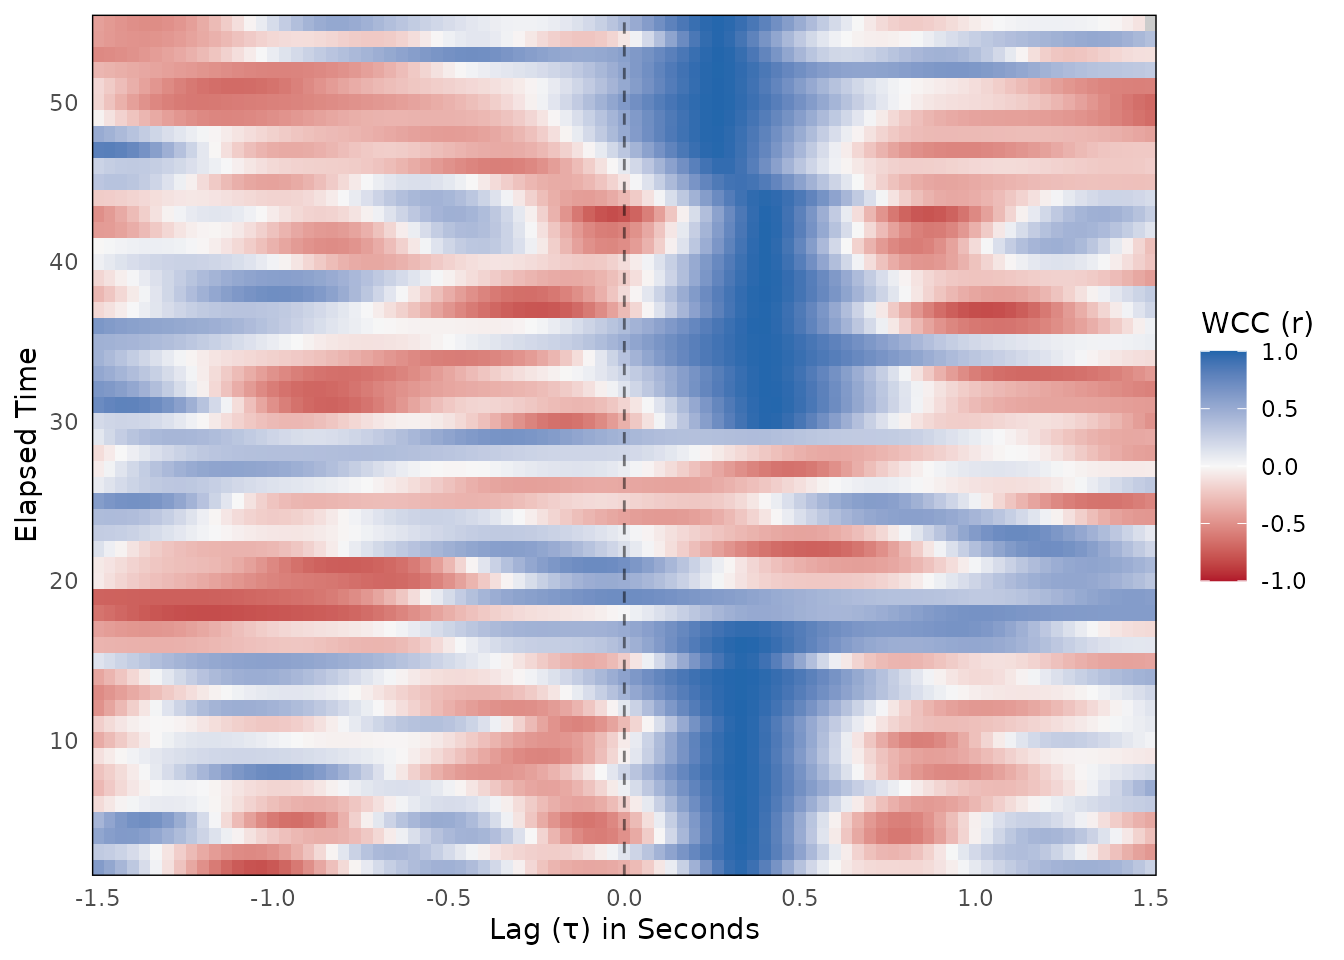
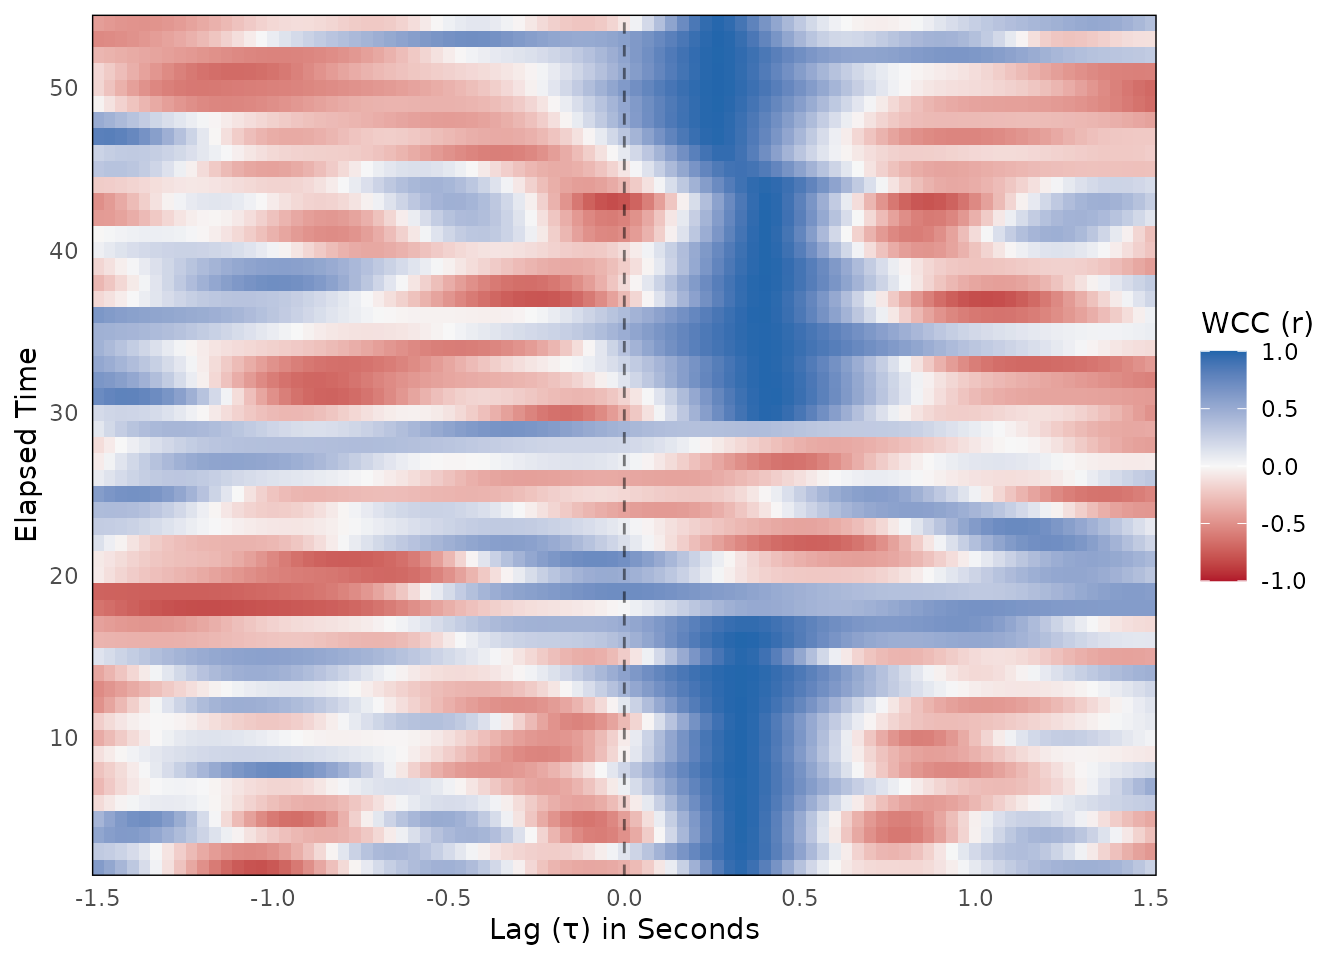
Deploying to gh-pages from @ jmgirard/bsync@b9f442d002ca07df2259f0f39518f39d2402fdb6 🚀

diff --git a/articles/wcc-workflow.html b/articles/wcc-workflow.html
@@ -208,17 +208,16 @@ frames (1 second) to allow for overlap and smooth transitions.</p>
 <span><span class="fu"><a href="https://rdrr.io/r/base/summary.html" class="external-link">summary</a></span><span class="op">(</span><span class="va">wcc_results</span><span class="op">)</span></span>
 <span><span class="co">#&gt; </span></span>
 <span><span class="co">#&gt; <span style="color: #00BBBB;">──</span> <span style="font-weight: bold;">Windowed Cross-Correlation Analysis</span> <span style="color: #00BBBB;">─────────────────────────────────────────</span></span></span>
-<span><span class="co">#&gt; Total Windows: 54</span></span>
+<span><span class="co">#&gt; Total Windows: 53</span></span>
 <span><span class="co">#&gt; Total Lags Tested: 91</span></span>
 <span><span class="co">#&gt; Window Size: 90</span></span>
 <span><span class="co">#&gt; Max Lag: 45</span></span>
-<span><span class="co">#&gt; Overall Fisher's Z: 0.4526</span></span>
+<span><span class="co">#&gt; Overall Fisher's Z: 0.4534</span></span>
 <span><span class="co">#&gt; </span></span>
 <span><span class="co">#&gt; ── <span style="font-weight: bold;">Cross-Correlation Value Distribution</span> ──</span></span>
 <span><span class="co">#&gt; </span></span>
 <span><span class="co">#&gt;      0%     25%     50%     75%    100% </span></span>
-<span><span class="co">#&gt; -0.8224 -0.2753  0.0178  0.3833  0.9975</span></span>
-<span><span class="co">#&gt; <span style="color: #BBBB00;">!</span> 1 missing value (NA) detected.</span></span></code></pre></div>
+<span><span class="co">#&gt; -0.8224 -0.2776  0.0129  0.3826  0.9975</span></span></code></pre></div>
 <p>The <code><a href="../reference/wcc.html">wcc()</a></code> function returns a list object of class
 <code>wcc_res</code> containing the results data frame, the overall
 Fisher’s Z score, and the input settings.</p>
@@ -255,10 +254,9 @@ distribution using the circular shift method.</p>
 <span><span class="op">)</span></span>
 <span></span>
 <span><span class="fu"><a href="https://rdrr.io/r/base/print.html" class="external-link">print</a></span><span class="op">(</span><span class="va">surrogate_results</span><span class="op">)</span></span>
-<span><span class="co">#&gt; </span></span>
 <span><span class="co">#&gt; <span style="color: #00BBBB;">──</span> <span style="font-weight: bold;">WCC Surrogate Analysis (Pseudo-Synchrony)</span> <span style="color: #00BBBB;">───────────────────────────────────</span></span></span>
 <span><span class="co">#&gt; Permutations: 1000</span></span>
-<span><span class="co">#&gt; Observed Fisher's Z: 0.4526</span></span>
+<span><span class="co">#&gt; Observed Fisher's Z: 0.4534</span></span>
 <span><span class="co">#&gt; Average Null Z: 0.3167</span></span>
 <span><span class="co">#&gt; Empirical p-value: &lt; 0.001</span></span>
 <span><span class="co">#&gt; <span style="color: #00BB00;">✔</span> Observed synchrony is significantly greater than chance.</span></span></code></pre></div>
@@ -293,20 +291,20 @@ an absolute correlation weaker than <span class="math inline">\(r =
 <span><span class="co">#&gt; </span></span>
 <span><span class="co">#&gt; ── <span style="font-weight: bold;">Completeness</span> ──</span></span>
 <span><span class="co">#&gt; </span></span>
-<span><span class="co">#&gt; <span style="color: #00BBBB;">•</span> Total time windows: 54</span></span>
-<span><span class="co">#&gt; <span style="color: #00BBBB;">•</span> Valid optima retained: 49 (90.7%)</span></span>
-<span><span class="co">#&gt; <span style="color: #00BBBB;">•</span> Optima dropped (NA): 5 (9.3%)</span></span>
+<span><span class="co">#&gt; <span style="color: #00BBBB;">•</span> Total time windows: 53</span></span>
+<span><span class="co">#&gt; <span style="color: #00BBBB;">•</span> Valid optima retained: 48 (90.6%)</span></span>
+<span><span class="co">#&gt; <span style="color: #00BBBB;">•</span> Optima dropped (NA): 5 (9.4%)</span></span>
 <span><span class="co">#&gt; </span></span>
 <span><span class="co">#&gt; ── <span style="font-weight: bold;">Lag Directionality (Leadership)</span> ──</span></span>
 <span><span class="co">#&gt; </span></span>
-<span><span class="co">#&gt; <span style="color: #00BBBB;">•</span> Positive Lags (x leads y): 39 (79.6%)</span></span>
-<span><span class="co">#&gt; <span style="color: #00BBBB;">•</span> Negative Lags (y leads x): 9 (18.4%)</span></span>
-<span><span class="co">#&gt; <span style="color: #00BBBB;">•</span> Zero Lags (Simultaneous): 1 (2%)</span></span>
+<span><span class="co">#&gt; <span style="color: #00BBBB;">•</span> Positive Lags (x leads y): 38 (79.2%)</span></span>
+<span><span class="co">#&gt; <span style="color: #00BBBB;">•</span> Negative Lags (y leads x): 9 (18.8%)</span></span>
+<span><span class="co">#&gt; <span style="color: #00BBBB;">•</span> Zero Lags (Simultaneous): 1 (2.1%)</span></span>
 <span><span class="co">#&gt; </span></span>
 <span><span class="co">#&gt; ── <span style="font-weight: bold;">Optimum Value Distribution</span> ──</span></span>
 <span><span class="co">#&gt; </span></span>
 <span><span class="co">#&gt;      0%     25%     50%     75%    100% </span></span>
-<span><span class="co">#&gt; -0.3739  0.9532  0.9923  0.9959  0.9975</span></span></code></pre></div>
+<span><span class="co">#&gt; -0.3739  0.9433  0.9926  0.9959  0.9975</span></span></code></pre></div>
 <div class="section level4">
 <h4 id="interpreting-the-optima-summary">4.1 Interpreting the Optima Summary<a class="anchor" aria-label="anchor" href="#interpreting-the-optima-summary"></a>
 </h4>

diff --git a/articles/wdtw-workflow.html b/articles/wdtw-workflow.html
@@ -156,11 +156,11 @@ than arbitrary measurement units.</p>
 <span><span class="fu"><a href="https://rdrr.io/r/base/print.html" class="external-link">print</a></span><span class="op">(</span><span class="va">wdtw_results</span><span class="op">)</span></span>
 <span><span class="co">#&gt; </span></span>
 <span><span class="co">#&gt; <span style="color: #00BBBB;">──</span> <span style="font-weight: bold;">Windowed Dynamic Time Warping Analysis</span> <span style="color: #00BBBB;">──────────────────────────────────────</span></span></span>
-<span><span class="co">#&gt; Total Windows: 55</span></span>
+<span><span class="co">#&gt; Total Windows: 54</span></span>
 <span><span class="co">#&gt; Total Lags Tested: 91</span></span>
 <span><span class="co">#&gt; Window Size: 90</span></span>
 <span><span class="co">#&gt; Max Lag: 45</span></span>
-<span><span class="co">#&gt; Overall Mean Distance: 36.6055</span></span></code></pre></div>
+<span><span class="co">#&gt; Overall Mean Distance: 36.5766</span></span></code></pre></div>
 <p>The <code><a href="../reference/wdtw.html">wdtw()</a></code> function returns a list object of class
 <code>wdtw_res</code> containing the results data frame, the overall
 mean distance, and the input settings.</p>
@@ -189,20 +189,20 @@ window to find the absolute minimum distance
 <span><span class="co">#&gt; </span></span>
 <span><span class="co">#&gt; ── <span style="font-weight: bold;">Completeness</span> ──</span></span>
 <span><span class="co">#&gt; </span></span>
-<span><span class="co">#&gt; <span style="color: #00BBBB;">•</span> Total time windows: 55</span></span>
-<span><span class="co">#&gt; <span style="color: #00BBBB;">•</span> Valid optima retained: 55 (100%)</span></span>
+<span><span class="co">#&gt; <span style="color: #00BBBB;">•</span> Total time windows: 54</span></span>
+<span><span class="co">#&gt; <span style="color: #00BBBB;">•</span> Valid optima retained: 54 (100%)</span></span>
 <span><span class="co">#&gt; <span style="color: #00BBBB;">•</span> Optima dropped (NA): 0 (0%)</span></span>
 <span><span class="co">#&gt; </span></span>
 <span><span class="co">#&gt; ── <span style="font-weight: bold;">Lag Directionality (Leadership)</span> ──</span></span>
 <span><span class="co">#&gt; </span></span>
-<span><span class="co">#&gt; <span style="color: #00BBBB;">•</span> Positive Lags (x leads y): 24 (43.6%)</span></span>
-<span><span class="co">#&gt; <span style="color: #00BBBB;">•</span> Negative Lags (y leads x): 29 (52.7%)</span></span>
-<span><span class="co">#&gt; <span style="color: #00BBBB;">•</span> Zero Lags (Simultaneous): 2 (3.6%)</span></span>
+<span><span class="co">#&gt; <span style="color: #00BBBB;">•</span> Positive Lags (x leads y): 24 (44.4%)</span></span>
+<span><span class="co">#&gt; <span style="color: #00BBBB;">•</span> Negative Lags (y leads x): 28 (51.9%)</span></span>
+<span><span class="co">#&gt; <span style="color: #00BBBB;">•</span> Zero Lags (Simultaneous): 2 (3.7%)</span></span>
 <span><span class="co">#&gt; </span></span>
 <span><span class="co">#&gt; ── <span style="font-weight: bold;">Optimum Value Distribution</span> ──</span></span>
 <span><span class="co">#&gt; </span></span>
 <span><span class="co">#&gt;      0%     25%     50%     75%    100% </span></span>
-<span><span class="co">#&gt; 17.0898 19.0493 19.8450 20.5687 23.3458</span></span></code></pre></div>
+<span><span class="co">#&gt; 17.0898 19.0350 19.8222 20.5789 23.3458</span></span></code></pre></div>
 <p>This returns a <code>wdtw_optima</code> data frame containing the
 elapsed time indices, the optimal lags, and the corresponding DTW
 distance values. The console output confirms that the search mode was

diff --git a/articles/wcc-workflow.md b/articles/wcc-workflow.md
@@ -142,17 +142,16 @@ wcc_results <- wcc(
 summary(wcc_results)
 #> 
 #> ── Windowed Cross-Correlation Analysis ─────────────────────────────────────────
-#> Total Windows: 54
+#> Total Windows: 53
 #> Total Lags Tested: 91
 #> Window Size: 90
 #> Max Lag: 45
-#> Overall Fisher's Z: 0.4526
+#> Overall Fisher's Z: 0.4534
 #> 
 #> ── Cross-Correlation Value Distribution ──
 #> 
 #>      0%     25%     50%     75%    100% 
-#> -0.8224 -0.2753  0.0178  0.3833  0.9975
-#> ! 1 missing value (NA) detected.
+#> -0.8224 -0.2776  0.0129  0.3826  0.9975
 ```
 
 The [`wcc()`](https://jmgirard.github.io/bsync/reference/wcc.md)
@@ -198,10 +197,9 @@ surrogate_results <- wcc_surrogate(
 )
 
 print(surrogate_results)
-#> 
 #> ── WCC Surrogate Analysis (Pseudo-Synchrony) ───────────────────────────────────
 #> Permutations: 1000
-#> Observed Fisher's Z: 0.4526
+#> Observed Fisher's Z: 0.4534
 #> Average Null Z: 0.3167
 #> Empirical p-value: < 0.001
 #> ✔ Observed synchrony is significantly greater than chance.
@@ -241,20 +239,20 @@ summary(wcc_optima_df)
 #> 
 #> ── Completeness ──
 #> 
-#> • Total time windows: 54
-#> • Valid optima retained: 49 (90.7%)
-#> • Optima dropped (NA): 5 (9.3%)
+#> • Total time windows: 53
+#> • Valid optima retained: 48 (90.6%)
+#> • Optima dropped (NA): 5 (9.4%)
 #> 
 #> ── Lag Directionality (Leadership) ──
 #> 
-#> • Positive Lags (x leads y): 39 (79.6%)
-#> • Negative Lags (y leads x): 9 (18.4%)
-#> • Zero Lags (Simultaneous): 1 (2%)
+#> • Positive Lags (x leads y): 38 (79.2%)
+#> • Negative Lags (y leads x): 9 (18.8%)
+#> • Zero Lags (Simultaneous): 1 (2.1%)
 #> 
 #> ── Optimum Value Distribution ──
 #> 
 #>      0%     25%     50%     75%    100% 
-#> -0.3739  0.9532  0.9923  0.9959  0.9975
+#> -0.3739  0.9433  0.9926  0.9959  0.9975
 ```
 
 #### 4.1 Interpreting the Optima Summary

diff --git a/articles/wdtw-workflow.md b/articles/wdtw-workflow.md
@@ -89,11 +89,11 @@ wdtw_results <- wdtw(
 print(wdtw_results)
 #> 
 #> ── Windowed Dynamic Time Warping Analysis ──────────────────────────────────────
-#> Total Windows: 55
+#> Total Windows: 54
 #> Total Lags Tested: 91
 #> Window Size: 90
 #> Max Lag: 45
-#> Overall Mean Distance: 36.6055
+#> Overall Mean Distance: 36.5766
 ```
 
 The [`wdtw()`](https://jmgirard.github.io/bsync/reference/wdtw.md)
@@ -126,20 +126,20 @@ summary(wdtw_optima_df)
 #> 
 #> ── Completeness ──
 #> 
-#> • Total time windows: 55
-#> • Valid optima retained: 55 (100%)
+#> • Total time windows: 54
+#> • Valid optima retained: 54 (100%)
 #> • Optima dropped (NA): 0 (0%)
 #> 
 #> ── Lag Directionality (Leadership) ──
 #> 
-#> • Positive Lags (x leads y): 24 (43.6%)
-#> • Negative Lags (y leads x): 29 (52.7%)
-#> • Zero Lags (Simultaneous): 2 (3.6%)
+#> • Positive Lags (x leads y): 24 (44.4%)
+#> • Negative Lags (y leads x): 28 (51.9%)
+#> • Zero Lags (Simultaneous): 2 (3.7%)
 #> 
 #> ── Optimum Value Distribution ──
 #> 
 #>      0%     25%     50%     75%    100% 
-#> 17.0898 19.0493 19.8450 20.5687 23.3458
+#> 17.0898 19.0350 19.8222 20.5789 23.3458
 ```
 
 This returns a `wdtw_optima` data frame containing the elapsed time